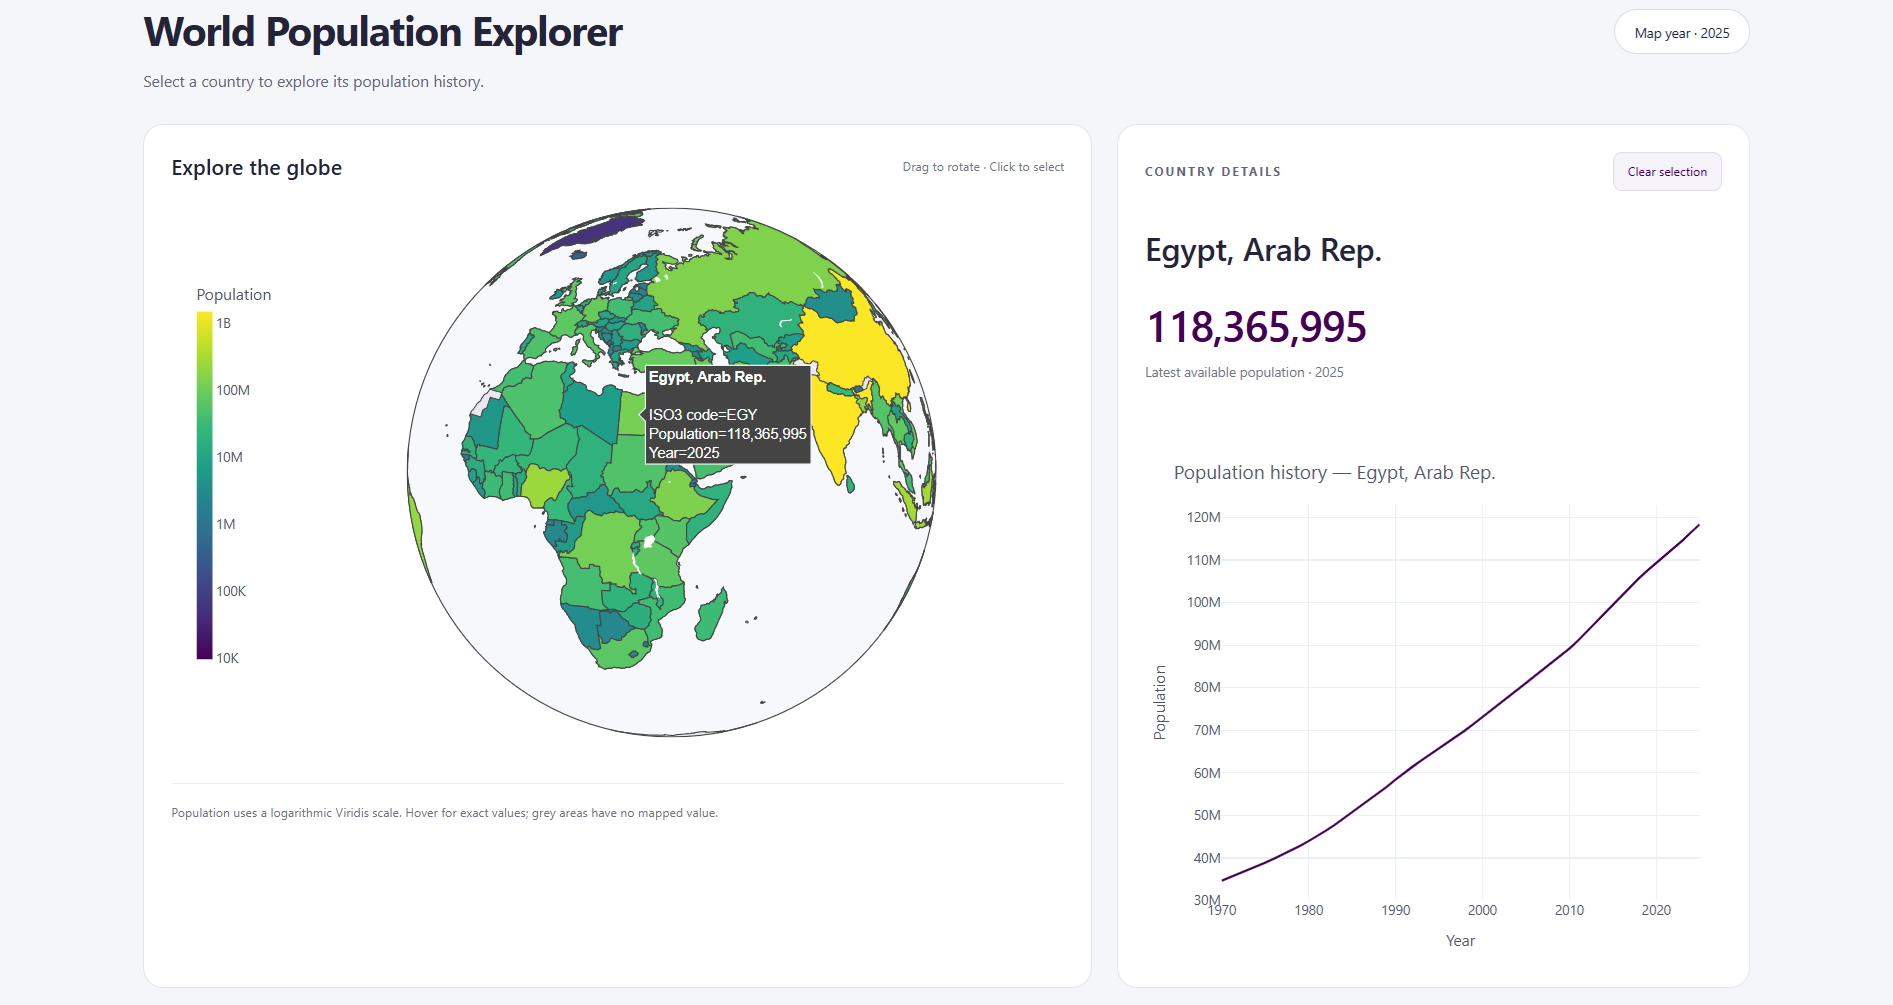
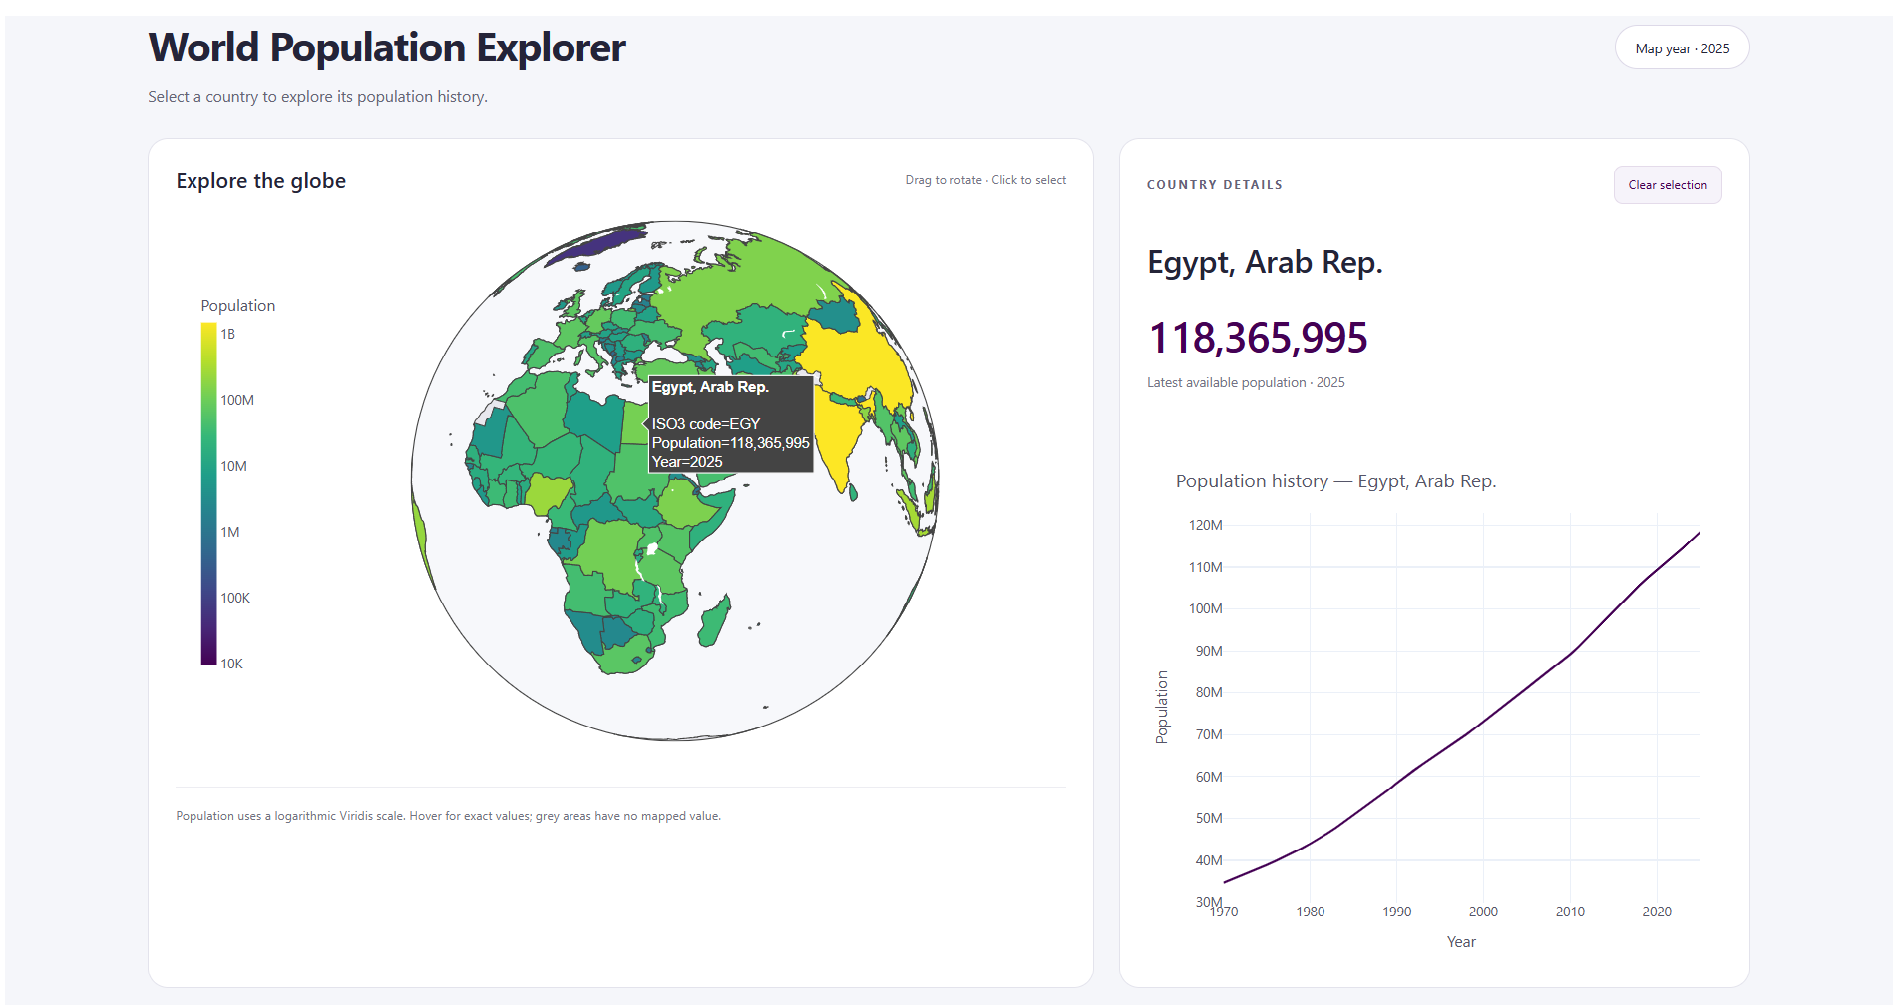
added the page

diff --git a/docs/index.html b/docs/index.html
@@ -70,26 +70,29 @@
       background:radial-gradient(circle,rgba(84,113,218,.14) 0,transparent 66%); pointer-events:none; }
     .hero::after { content:""; position:absolute; z-index:-1; width:650px;height:650px; left:-400px;bottom:-390px;
       background:radial-gradient(circle,rgba(52,194,161,.08) 0,transparent 70%); pointer-events:none; }
-    .hero-layout { display:grid;grid-template-columns:1fr 1.05fr;gap:54px;align-items:center; }
-    .hero h1 { max-width:570px;font-size:clamp(3.1rem,5.8vw,5.25rem);margin:23px 0 21px;font-weight:850;line-height:1.065; }
-    .hero .lead { max-width:520px;font-size:1.07rem;line-height:1.75;margin-bottom:29px; }
-    .hero-cta { display:flex;flex-wrap:wrap;gap:12px; }
+    .hero-intro { max-width: 830px; margin: 0 auto; text-align: center; }
+    .hero h1 { max-width: 830px; font-size: clamp(3.1rem, 6vw, 5.25rem); margin: 23px auto 21px; font-weight: 850; line-height: 1.065; }
+    .hero .lead { max-width: 710px; font-size: 1.07rem; line-height: 1.75; margin: 0 auto 29px; }
+    .hero-cta { display:flex;flex-wrap:wrap;gap:12px;justify-content:center; }
     .hero-note { margin-top:22px;font-size:.79rem;color:var(--muted-2); }
-    .hero-art { border:1px solid rgba(147,181,234,.20);background:linear-gradient(160deg,#152541 1%,#0a1223 68%);
-      position:relative; overflow:hidden; height:470px; border-radius:26px; box-shadow:0 32px 100px rgba(0,0,0,.26); }
-    .art-grid { position:absolute;inset:0; opacity:.38; background-image:linear-gradient(rgba(111,145,202,.085) 1px,transparent 1px),linear-gradient(90deg,rgba(111,145,202,.085) 1px,transparent 1px); background-size:40px 40px; mask-image:linear-gradient(to bottom,#000 25%,transparent 100%); }
-    .art-top { position:absolute;left:24px;right:24px;top:24px;display:flex;justify-content:space-between;align-items:center;z-index:2; }
-    .art-tag { border:1px solid rgba(159,187,232,.2);background:#0b172c; border-radius:6px; padding:6px 9px; font-size:.66rem; color:#bacde6;letter-spacing:.09em;text-transform:uppercase; font-weight:800; }
-    .art-dots { display:flex;gap:6px; }
-    .art-dots span { width:7px;height:7px;border-radius:50%;background:#527090; }
-    .globe-svg { position:absolute;width:88%;height:88%;left:6%;top:8%;filter:drop-shadow(0 26px 40px rgba(3,8,22,.6)); }
-    .art-card { position:absolute;bottom:29px;left:26px;right:26px;display:flex;justify-content:space-between;gap:15px;align-items:center;
-      padding:16px 18px;background:rgba(9,20,39,.86);backdrop-filter:blur(12px);border:1px solid rgba(156,187,230,.18);border-radius:13px; }
-    .art-card strong { display:block;font-size:.88rem;letter-spacing:-.01em; }
-    .art-card small { display:block;color:#91a6c4;font-size:.73rem;margin-top:3px; }
-    .art-mini { display:flex;gap:4px;align-items:end;height:35px; }
-    .art-mini i { display:block;width:7px;border-radius:3px 3px 0 0;background:linear-gradient(#64e3c9,#5376e9); }
-    .art-credit { position:absolute;bottom:0;right:0;left:0;text-align:center;font-size:.65rem;color:#6d809d;transform:translateY(21px); }
+    .hero-art {
+      width: 100%;
+      height: auto;
+      margin-top: 42px;
+      border: 1px solid rgba(147,181,234,.25);
+      border-radius: 22px;
+      background: #f3f5fa;
+      overflow: hidden;
+      box-shadow: 0 28px 75px rgba(0,0,0,.28);
+    }
+    .hero-shot {
+      display: block;
+      width: 100%;
+      height: auto;
+    }
+    .hero-caption { text-align:center; margin:15px 0 0; color:var(--muted-2); font-size:.8rem; }
+    .hero-shot-link { display:block; }
+    .hero-shot-link:focus-visible { outline:3px solid var(--teal); outline-offset:4px; }
     .metrics { display:grid;grid-template-columns:repeat(4,1fr);gap:16px;margin-top:34px; }
     .metric { padding:21px 24px;border:1px solid var(--line);border-radius:16px;background:rgba(19,31,53,.56); }
     .metric b { font-size:1.38rem;line-height:1.2;letter-spacing:-.035em;display:block; }
@@ -126,21 +129,8 @@
     .detail { padding:22px;border-left:2px solid rgba(91,229,203,.6);background:rgba(15,25,42,.55);border-radius:0 12px 12px 0; }
     .detail strong { display:block;font-size:.88rem;margin-bottom:9px; }
     .detail p { font-size:.82rem;line-height:1.7;margin:0; }
-    .showcase { display:grid;grid-template-columns:1fr .75fr;gap:26px;align-items:stretch; }
-    .showcase-visual { border:1px solid rgba(154,187,236,.20);border-radius:20px;padding:27px;background:linear-gradient(145deg,#152641,#0e182b);min-height:380px; }
-    .viz-header { display:flex;align-items:center;justify-content:space-between;margin-bottom:28px;gap:12px; }
-    .viz-header strong { font-size:.82rem;letter-spacing:.015em; }
-    .viz-header span { font-size:.7rem;color:#9cbbda; }
-    .chart-wrap { position:relative; }
-    .line-chart { width:100%;height:auto;display:block; }
-    .viz-legend { display:flex;justify-content:space-between;color:#849abb;font-size:.68rem;margin-top:2px; }
-    .viz-footer { display:flex;gap:9px;flex-wrap:wrap;margin-top:22px; }
-    .viz-footer span { border-radius:7px;padding:6px 10px;background:#1b3048;color:#c7d7ee;font-size:.68rem;font-weight:650; }
-    .showcase-copy { padding:9px 0;display:flex;flex-direction:column;justify-content:center;align-items:flex-start; }
-    .showcase-copy h3 { font-size:1.75rem;margin:10px 0 14px; }
-    .showcase-copy p { font-size:.94rem;line-height:1.75; }
-    .showcase-copy .button { margin-top:10px; }
-    .fine-print { font-size:.76rem;line-height:1.75;color:var(--muted-2);margin-top:18px; }
+    .engineering-demo { margin:26px 0 0; font-size:.86rem; }
+    .engineering-demo a { color:var(--teal);font-weight:750;text-decoration:underline;text-underline-offset:3px; }
     .status-grid { display:grid;grid-template-columns:repeat(3,1fr);gap:17px; }
     .status-card { border:1px solid var(--line);border-radius:17px;background:#111d31;padding:25px; }
     .status-card .tag { display:inline-flex;border-radius:100px;padding:5px 10px;font-size:.68rem;font-weight:800;letter-spacing:.055em;text-transform:uppercase;margin-bottom:20px; }
@@ -164,13 +154,8 @@
     @media (max-width:980px) {
       .nav-links { gap:16px; }
       .hero { padding:75px 0 66px; }
-      .hero-layout { grid-template-columns:1fr;gap:43px; }
-      .hero h1 { max-width:780px; }
-      .hero-art { height:440px;max-width:690px;width:100%;margin-inline:auto; }
       .metrics { grid-template-columns:repeat(2,1fr); }
       .architecture { grid-template-columns:1fr; }
-      .showcase { grid-template-columns:1fr; }
-      .showcase-copy { padding:12px 2px; }
     }
     @media (max-width:700px) {
       .container { width:min(calc(100% - 32px),var(--max)); }
@@ -180,10 +165,8 @@
       .hero { padding:59px 0 55px; }
       .hero h1 { font-size:clamp(2.75rem,12vw,4rem); }
       .hero .lead { font-size:.98rem; }
-      .hero-art { height:340px; }
-      .globe-svg { width:100%;height:94%;left:0;top:2%; }
-      .art-card { left:13px;right:13px;bottom:13px;padding:12px 13px; }
-      .art-top { top:15px;left:15px;right:15px; }
+      .hero-art { margin-top:30px; border-radius:14px; }
+      .hero-caption { font-size:.74rem; }
       .metrics { gap:10px; }
       .metric { padding:18px 16px; }
       .metric b { font-size:1.08rem; }
@@ -225,24 +208,24 @@
   <main id="top">
     <div class="container">
       <section class="hero" aria-labelledby="hero-title">
-        <div class="hero-layout">
-          <div>
-            <span class="pill"><span class="status-dot"></span> DEPLOYED · OPEN SOURCE</span>
-            <h1 id="hero-title">World Population <span class="gradient-text">Explorer.</span></h1>
-            <p class="lead">Explore how populations have changed across the world through an interactive globe and historical trends — powered by an end-to-end World Bank data pipeline and a serverless AWS deployment.</p>
-            <div class="hero-cta">
-              <a class="button primary" href="https://kgywd5fzmf347xiiw2rlz73hm40eiyby.lambda-url.eu-north-1.on.aws/" target="_blank" rel="noopener noreferrer">Explore the live dashboard <span aria-hidden="true">↗</span></a>
-              <a class="button secondary" href="https://github.com/Seif-Wessam/world-population-interactive-visualisation" target="_blank" rel="noopener noreferrer">View source code <span aria-hidden="true">↗</span></a>
-            </div>
-            <p class="hero-note">Built by Seif Hamed · Python · Plotly Dash · AWS Lambda</p>
+        <div class="hero-intro">
+          <span class="pill"><span class="status-dot"></span> DEPLOYED · OPEN SOURCE</span>
+          <h1 id="hero-title">World Population <span class="gradient-text">Explorer.</span></h1>
+          <p class="lead">Explore how populations have changed across the world through an interactive globe and historical trends — powered by an end-to-end World Bank data pipeline and a serverless AWS deployment.</p>
+          <div class="hero-cta">
+            <a class="button primary" href="https://kgywd5fzmf347xiiw2rlz73hm40eiyby.lambda-url.eu-north-1.on.aws/" target="_blank" rel="noopener noreferrer">Explore the live dashboard <span aria-hidden="true">↗</span></a>
+            <a class="button secondary" href="https://github.com/Seif-Wessam/world-population-interactive-visualisation" target="_blank" rel="noopener noreferrer">View source code <span aria-hidden="true">↗</span></a>
           </div>
-          <div>
-            <div class="hero-art" role="img" aria-label="Screenshot of the World Population Explorer dashboard showing the interactive globe, Egypt selected, and a population history chart.">
-              <img class="hero-shot" src="assets/world-population-explorer-screenshot.png" alt="World Population Explorer application screenshot" />
-              <div class="hero-overlay"><strong>Real application screenshot</strong><small>Interactive globe · country details · historical population trend</small></div>
-            </div></div>
-          </div>
+          <p class="hero-note">Built by Seif Hamed · Python · Plotly Dash · AWS Lambda</p>
         </div>
+        <figure style="margin:0">
+          <div class="hero-art">
+            <a class="hero-shot-link" href="assets/world-population-explorer-screenshot.png" target="_blank" rel="noopener" aria-label="Open the full-size dashboard screenshot in a new tab">
+              <img class="hero-shot" src="assets/world-population-explorer-screenshot.png" alt="World Population Explorer dashboard with a globe coloured by population on the left and Egypt's historical population chart on the right." width="1893" height="1005" fetchpriority="high" decoding="async" />
+            </a>
+          </div>
+          <figcaption class="hero-caption">Actual application screenshot · Select a country on the live globe to explore its population history · Click to view full size</figcaption>
+        </figure>
         <div class="metrics" aria-label="Project at a glance">
           <div class="metric"><b>1970 → latest</b><span>World Bank observations, where available</span></div>
           <div class="metric"><b>200+ economies</b><span>Mapped in the latest available view</span></div>
@@ -297,28 +280,12 @@
     <section class="section alt" id="engineering" aria-labelledby="engineering-title">
       <div class="container">
         <div class="section-head"><span class="eyebrow">Engineering decisions</span><h2 id="engineering-title">More than a <span class="gradient-text">front-end visualization.</span></h2><p>The project combines ingestion safeguards, runtime architecture, automated tests, and cloud deployments.</p></div>
-        <div class="showcase">
-          <div class="showcase-visual" role="img" aria-label="Illustrative line chart representing historical population trends, not actual observations.">
-            <div class="viz-header"><strong>Historical population explorer</strong><span>Illustrative chart</span></div>
-            <div class="chart-wrap">
-              <svg class="line-chart" viewBox="0 0 570 238" xmlns="http://www.w3.org/2000/svg" aria-hidden="true">
-                <defs><linearGradient id="chartFill" x1="0" y1="0" x2="0" y2="1"><stop stop-color="#68dcc7" stop-opacity=".35"/><stop offset="1" stop-color="#68dcc7" stop-opacity="0"/></linearGradient></defs>
-                <g stroke="#7c91b1" stroke-opacity=".22" stroke-width="1"><path d="M32 25H548M32 70H548M32 115H548M32 160H548M32 205H548"/></g>
-                <path d="M35 182C70 180 82 171 116 167S180 153 211 141S267 139 300 115S359 109 392 87S450 69 480 49S530 29 548 24L548 205H35Z" fill="url(#chartFill)"/>
-                <path d="M35 182C70 180 82 171 116 167S180 153 211 141S267 139 300 115S359 109 392 87S450 69 480 49S530 29 548 24" fill="none" stroke="#77e6d2" stroke-width="3.4" stroke-linecap="round"/>
-                <circle cx="548" cy="24" r="5.5" fill="#b0f9e9"/><circle cx="548" cy="24" r="12" fill="none" stroke="#80e4d0" stroke-opacity=".32"/>
-              </svg>
-              <div class="viz-legend"><span>1970</span><span>Historical observations</span><span>Latest available year</span></div>
-            </div>
-            <div class="viz-footer"><span>Population history</span><span>World Bank · SP.POP.TOTL</span><span>Interactive selection</span></div>
-          </div>
-          <div class="showcase-copy"><span class="eyebrow">Watch or try</span><h3>See the project in action.</h3><p>Open the live dashboard to rotate the globe, select an economy, and inspect historical population trends. For a quick walkthrough, watch the demo video linked in the repository.</p><a class="button primary" href="https://kgywd5fzmf347xiiw2rlz73hm40eiyby.lambda-url.eu-north-1.on.aws/" target="_blank" rel="noopener noreferrer">Launch the dashboard <span aria-hidden="true">↗</span></a><a class="button secondary" style="margin-top:12px" href="https://github.com/user-attachments/assets/b9c95f83-1d33-4023-b44e-0b4245502bc6" target="_blank" rel="noopener noreferrer">Watch the demo video <span aria-hidden="true">↗</span></a><p class="fine-print">The live app runs on AWS Lambda, so the first request after an idle period may take longer while the container starts.</p></div>
-        </div>
         <div class="details">
           <div class="detail"><strong>Careful data handling</strong><p>API pagination and reported record totals are checked. Missing observations stay <code>null</code> instead of being treated as zero.</p></div>
           <div class="detail"><strong>Efficient interactions</strong><p>The dashboard loads prepared S3 data at Python process startup, then filters it in memory for country-selection callbacks.</p></div>
           <div class="detail"><strong>Versioned cloud builds</strong><p>GitHub Actions runs Python tests and builds Docker images in ECR. The final dashboard Lambda image update is currently manual.</p></div>
         </div>
+        <p class="engineering-demo">Want to see the application in action? <a href="https://github.com/user-attachments/assets/b9c95f83-1d33-4023-b44e-0b4245502bc6" target="_blank" rel="noopener noreferrer">Watch the recorded demo <span aria-hidden="true">↗</span></a></p>
       </div>
     </section>
 
